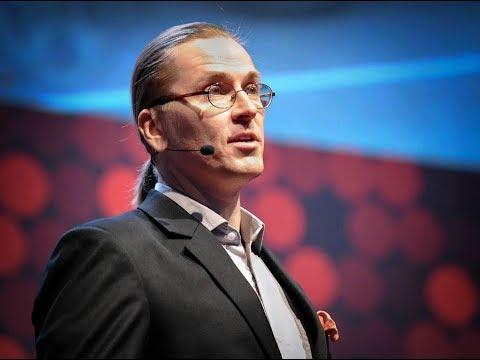
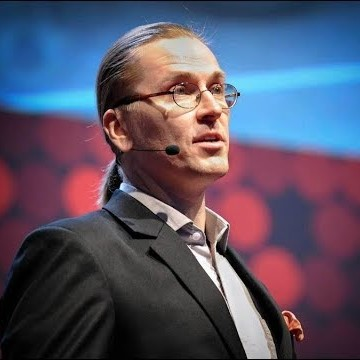
Updated photos for landing-page. Updated some styling.

diff --git a/src/styles/landing-page-2019-10.css b/src/styles/landing-page-2019-10.css
@@ -3,9 +3,9 @@
 }
 
 .landingPageInfoContainer {
-  background-color: #fff;
-  padding: 1rem 0 2rem 0;
   border-radius: 0.1rem;
+  background-color: #fff;
+  padding: 1rem;
 }
 
 .landingPageInfoContainer img {
@@ -34,7 +34,6 @@
 
 @media (max-width: 768px) {
   div.jumbotron {
-      margin-bottom: 0;
+    margin-bottom: 0;
   }
-  
 }

diff --git a/src/pages/index.js b/src/pages/index.js
@@ -58,7 +58,7 @@ const IndexPage = ({ location }) => {
               alt="Mennesker foran Vippa Mathall"
             />
             <p>
-              Visma @ Vippa <br /> Fredag 18.oktober 14:30-23:00
+              Visma @ Vippa <br /> Fredag 18. oktober 14:30-23:00
             </p>
           </div>
         </div>

diff --git a/gatsby-browser.js b/gatsby-browser.js
@@ -7,4 +7,3 @@
 // You can delete this file if you're not using it
 
 import "./src/styles/global.css"
-import "./src/styles/index.css"

diff --git a/src/styles/black-theme.css b/src/styles/black-theme.css
@@ -36,3 +36,5 @@ p,
 div.jumbotron {
   background-color: #222 !important;
 }
+
+@import "./landing-page-2019-10.css";

diff --git a/src/components/layout/navbar-overrides.css b/src/components/layout/navbar-overrides.css
@@ -4,6 +4,7 @@ body {
 
 .navbar {
     min-height: 80px;
+    padding-bottom: 0 !important;
 }
 
 .navbar-brand {
